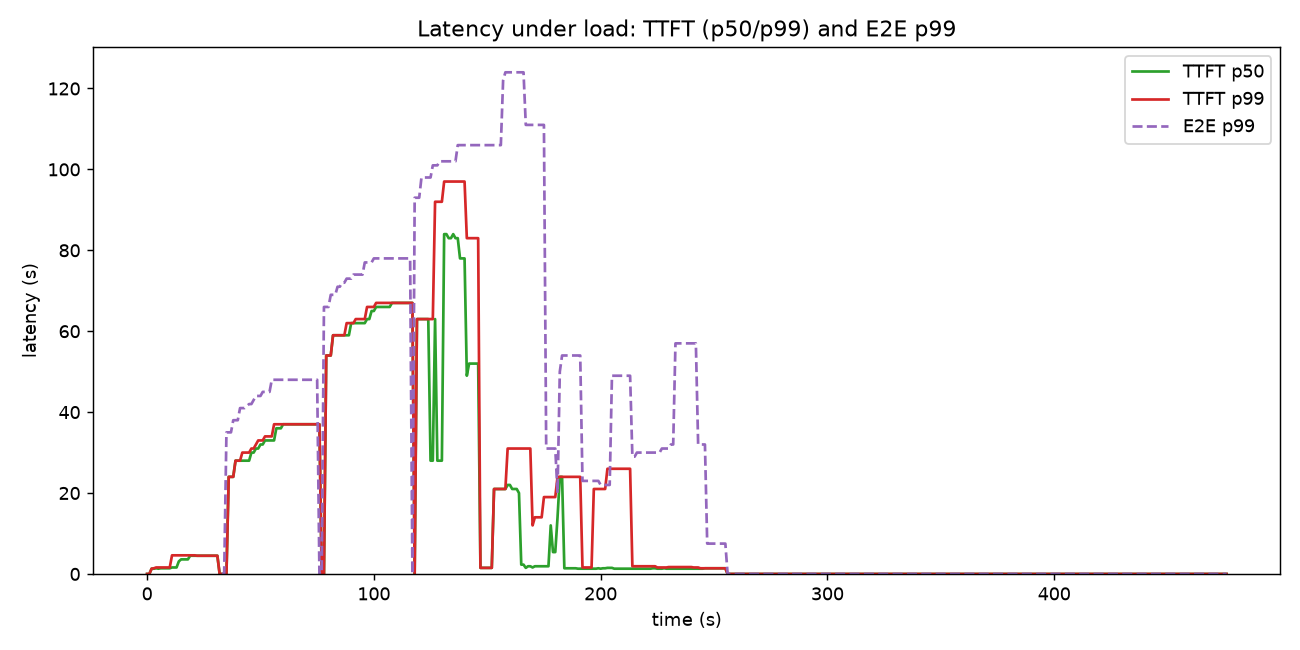
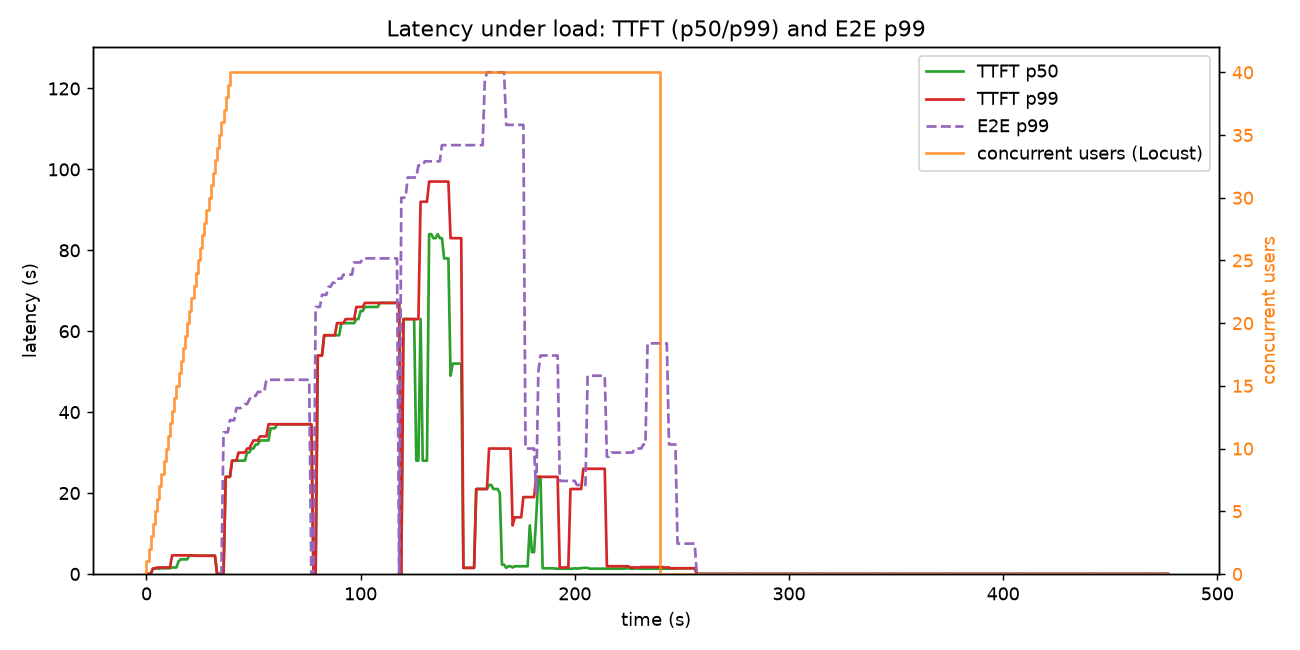
adds concurrent users in latency graph

diff --git a/loadtest/plot.py b/loadtest/plot.py
@@ -114,42 +114,76 @@ def plot_containers_vs_traffic():
 # Graph 2: latency (TTFT + p99)
 # --------------------------------------------------------------------------- #
 def _load_locust_history():
-    """Return {name: {"t":[], "p50":[], "p99":[]}} from Locust history CSV (ms)."""
+    """Return ({name: {"t":[], "p50":[], "p99":[]}}, rps_t, rps_vals).
+
+    Latency series use the first_user_ts as t=0 (same reference as graph 1).
+    RPS comes from the Aggregated rows.
+    """
     path = os.path.join(RESULTS_DIR, "locust_stats_history.csv")
     if not os.path.exists(path):
         print(f"skip graph 2: {path} not found (run locust with --csv)")
-        return None
-    series = {}
+        return None, None, None
+
+    # Use first non-zero user timestamp as t=0 (consistent with graph 1).
     t0 = None
+    rps_ts, rps_vals = [], []
+    series = {}
+
     with open(path) as f:
         for row in csv.DictReader(f):
             name = row.get("Name", "")
-            if name not in ("TTFT", "E2E"):
-                continue
             try:
                 ts = float(row["Timestamp"])
-                p50 = float(row["50%"])
-                p99 = float(row["99%"])
             except (KeyError, ValueError):
                 continue
-            t0 = ts if t0 is None else min(t0, ts)
-            s = series.setdefault(name, {"ts": [], "p50": [], "p99": []})
-            s["ts"].append(ts)
-            s["p50"].append(p50)
-            s["p99"].append(p99)
+
+            # Find t0: first moment a user existed.
+            if t0 is None and name == "Aggregated":
+                try:
+                    if int(row["User Count"]) > 0:
+                        t0 = ts
+                except (KeyError, ValueError):
+                    pass
+
+            # User count from Aggregated rows.
+            if name == "Aggregated":
+                try:
+                    rps_ts.append(ts)
+                    rps_vals.append(int(row["User Count"]))
+                except (KeyError, ValueError):
+                    pass
+
+            # Latency from TTFT / E2E rows.
+            if name in ("TTFT", "E2E"):
+                try:
+                    p50 = float(row["50%"])
+                    p99 = float(row["99%"])
+                except (KeyError, ValueError):
+                    continue
+                s = series.setdefault(name, {"ts": [], "p50": [], "p99": []})
+                s["ts"].append(ts)
+                s["p50"].append(p50)
+                s["p99"].append(p99)
+
     if not series:
         print("skip graph 2: no TTFT/E2E rows in Locust history")
-        return None
-    # normalize timestamps to relative seconds, ms -> s
+        return None, None, None
+
+    if t0 is None:
+        t0 = min(s["ts"][0] for s in series.values())
+
+    # Normalize: timestamps -> relative seconds, latency ms -> s.
     for s in series.values():
         s["t"] = [ts - t0 for ts in s["ts"]]
         s["p50"] = [v / 1000.0 for v in s["p50"]]
         s["p99"] = [v / 1000.0 for v in s["p99"]]
-    return series
+
+    rps_t = [ts - t0 for ts in rps_ts]
+    return series, rps_t, rps_vals
 
 
 def plot_latency():
-    series = _load_locust_history()
+    series, rps_t, rps_vals = _load_locust_history()
     if not series:
         return
     fig, ax = plt.subplots(figsize=(10, 5))
@@ -164,7 +198,19 @@ def plot_latency():
     ax.set_xlabel("time (s)")
     ax.set_ylabel("latency (s)")
     ax.set_ylim(bottom=0)
-    ax.legend(loc="upper right")
+
+    if rps_t:
+        ax2 = ax.twinx()
+        ax2.step(rps_t, rps_vals, where="post", color="tab:orange",
+                 linewidth=1.5, alpha=0.8, label="concurrent users (Locust)")
+        ax2.set_ylabel("concurrent users", color="tab:orange")
+        ax2.tick_params(axis="y", labelcolor="tab:orange")
+        ax2.set_ylim(bottom=0)
+        lines = ax.get_lines() + ax2.get_lines()
+        ax.legend(lines, [ln.get_label() for ln in lines], loc="upper right")
+    else:
+        ax.legend(loc="upper right")
+
     plt.title("Latency under load: TTFT (p50/p99) and E2E p99")
     fig.tight_layout()
     out = os.path.join(RESULTS_DIR, "latency.png")